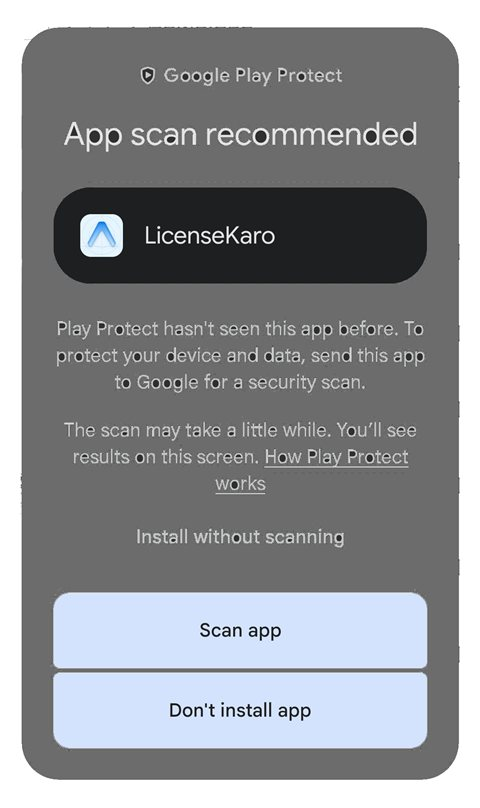
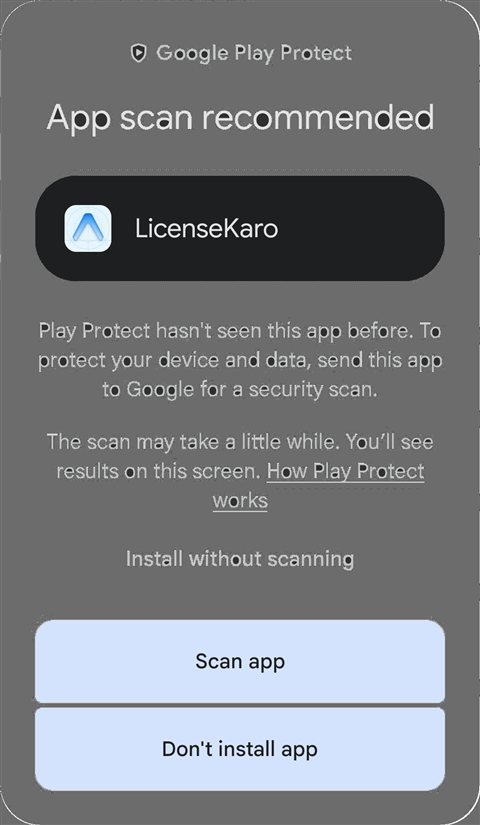
feat: Bengali hero screenshots, full founder photo, clean scan image
- hero composite rebuilt from Bengali UI screenshots
- founder photo uses full square (previous crop too tight)
- scan-warning cropped to grey scrim, white margin/corners removed

diff --git a/index.html b/index.html
@@ -214,7 +214,7 @@
       <br /><br />
       নিচের মতো <strong>"App scan recommended"</strong> স্ক্রিন এলে নিশ্চিন্তে
       <strong>"Scan app"</strong>-এ চাপ দিন — Google নিজে স্ক্যান করে দেখবে, তারপর ইনস্টল হবে।
-      <img src="./scan-warning.jpg" width="480" height="759" alt='Google Play Protect "App scan recommended" স্ক্রিন — Scan app বোতামে চাপ দিন'
+      <img src="./scan-warning.jpg" width="480" height="824" alt='Google Play Protect "App scan recommended" স্ক্রিন — Scan app বোতামে চাপ দিন'
            style="display:block;margin:14px auto 0;max-width:240px;height:auto;border-radius:12px;border:1px solid var(--border)" />
     </div>
   </div>